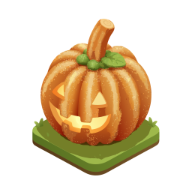
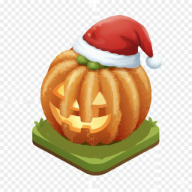
Update branding from Halloween to Holiday 2025 theme
Replace Halloween-themed assets and branding with Holiday 2025 theme. Update all favicons with new holiday design, add new icon sizes (96x96, web-app-manifest variants), and simplify favicon.svg. Switch data source to food-holiday.json and update app metadata, titles, and emoji from 🎃 to 🎄.

🤖 Generated with [Claude Code](https://claude.com/claude-code)

diff --git a/src/routes/+page.svelte b/src/routes/+page.svelte
@@ -8,12 +8,12 @@ const itemCount = data.foodData.items.length;
 </script>
 
 <svelte:head>
-    <title>🎃 Disneyland Halloween Food Guide 2025 | {itemCount} Items</title>
+    <title>🎄 Disneyland Holiday Food Guide 2025 | {itemCount} Items</title>
     <meta
         name="description"
         content="Browse {itemCount} seasonal food and drink items across Disneyland and Disney California Adventure with prices, locations, tags, and mobile ordering details."
     />
-    <meta property="og:title" content="Disneyland Halloween Food Guide 2025" />
+    <meta property="og:title" content="Disneyland Holiday Food Guide 2025" />
     <meta
         property="og:description"
         content="Plan your Disneyland visit with {itemCount} seasonal snacks, meals, and drinks, all available offline in the FOM guide."

diff --git a/src/routes/FoodGuide.svelte b/src/routes/FoodGuide.svelte
@@ -258,7 +258,7 @@ function handleItemClick(item: FoodItem) {
 
 <div class="container mx-auto px-4 py-3 max-w-7xl">
     <header class="text-center my-4 mt-12">
-        <h1 class="text-4xl font-bold mb-2">🎃</h1>
+        <h1 class="text-4xl font-bold mb-2">🎄</h1>
         <p class="text-muted-foreground">
             <span class="text-primary">{filteredItems.length} </span> / {metadata.totalItems -
                 1}

diff --git a/src/routes/+page.ts b/src/routes/+page.ts
@@ -5,7 +5,7 @@ import type { PageLoad } from "./$types";
 export const prerender = true;
 
 export const load: PageLoad = async ({ fetch }) => {
-	const response = await fetch("/data/food.json");
+	const response = await fetch("/data/food-holiday.json");
 
 	if (!response.ok) {
 		throw error(response.status, "Failed to load food guide data");

diff --git a/src/lib/types/types.ts b/src/lib/types/types.ts
@@ -1,4 +1,4 @@
-// TypeScript type definitions for Disneyland Halloween Food Guide
+// TypeScript type definitions for Disneyland Holiday Food Guide
 
 export interface FoodItem {
 	id: number;
